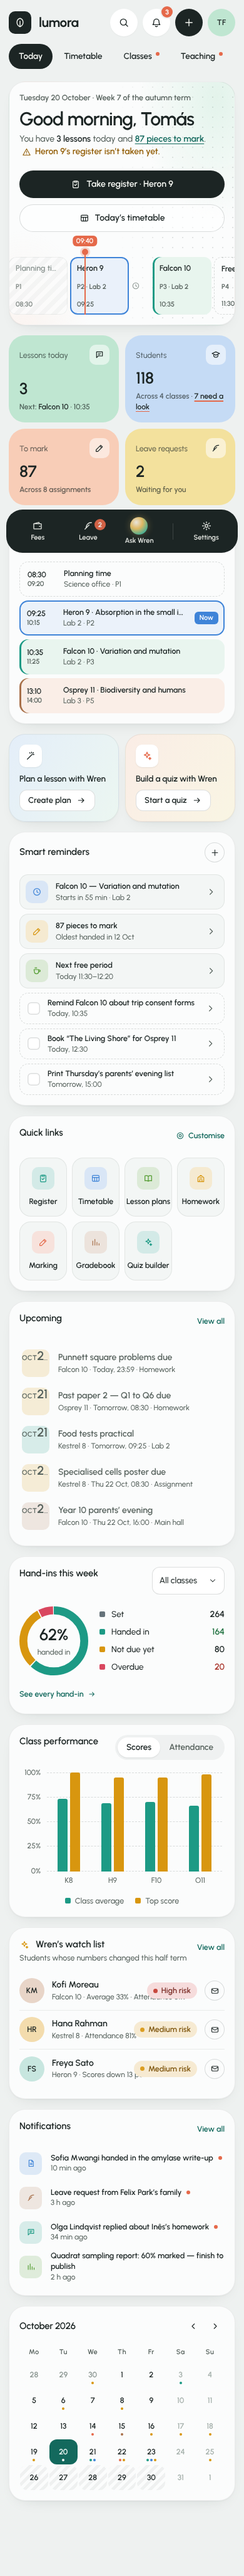
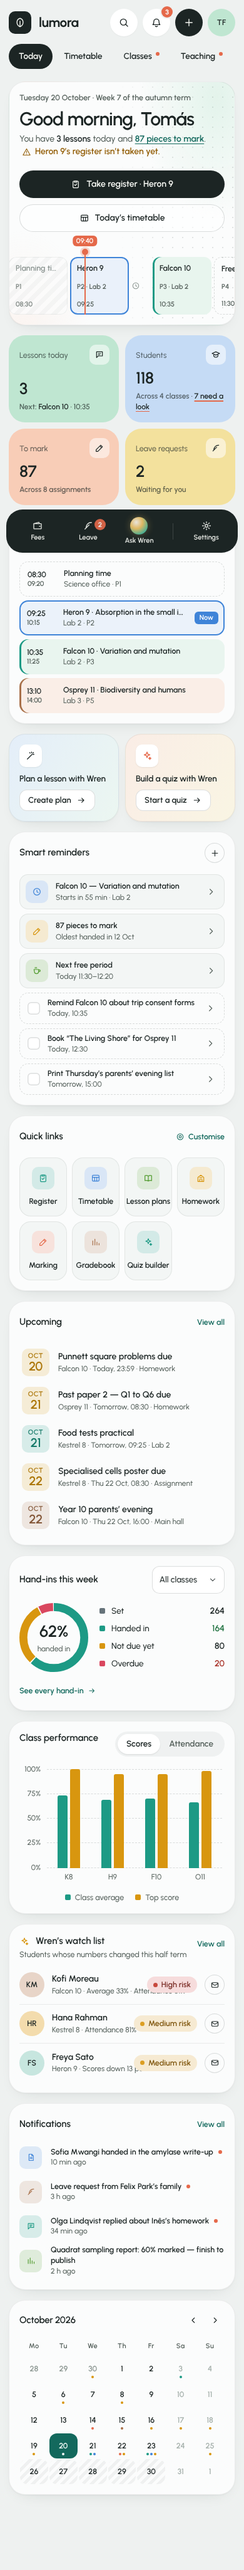
Lumora: la adaptación a MaKo (Mi día) y la copia ajustada al demo
- La copia, a 1 px del demo a 1440 (2041 contra 2040): las fechas de Upcoming en dos renglones y el título de cada
  tarjeta centrado con su link, como en Lumora.
- La adaptación (mako.html), con la misma hoja y el mismo movimiento: la cinta del día con la línea del ahora, las dos
  tarjetas de MaKo, los cuatro números del día (con la barrita de Lumora: MaKo no guarda la serie para dibujar la
  línea), los accesos, lo que vence, tu funnel hoy, tus OKRs contra lo esperado, los que te deben, el semáforo y el
  riel con el mes, tu día y los recordatorios. Todo sale de los datos que General ya lee.

Claude-Cuenta: nube
Claude-Session: https://claude.ai/code/session_01759ySfsXTQm8uWjcijqpqk

diff --git a/docs/diseno/mockups-dashboard/focus-lumora/mako.html b/docs/diseno/mockups-dashboard/focus-lumora/mako.html
@@ -1,0 +1,188 @@
+<!doctype html>
+<!-- FOCUS (LUMORA) · PASO 2: LA ADAPTACIÓN A MaKo de la copia de Lumora (4/11/2026). La MISMA hoja (lumora.css) y el mismo
+     movimiento (lumora.js) que copia.html; cambian los textos y lo que dice cada bloque. Los nombres y los números son de
+     EJEMPLO (ficticios). Sin la barra de arriba ni la de abajo: en MaKo las pone la app.
+     De dónde sale cada bloque (todo de los datos que General ya lee, app/general/datos.ts):
+       · el hero: la fecha y la semana del trimestre, el saludo, cuántas llamadas y tareas hay hoy, y lo que urge (cuotas
+         vencidas); la CINTA es lo de hoy en el Calendario, con la línea del ahora;
+       · las dos tarjetas de la IA: preparar la próxima llamada (la ficha del lead) y preguntarle a MaKo (su chat);
+       · los cuatro números: las llamadas de hoy, las tareas de hoy, lo que te deben y los KPIs del día. La barrita es el
+         `meter` de Lumora: MaKo no guarda la serie de esos números, así que la línea (sparkline) no se dibuja;
+       · los accesos: las tabs de MaKo;
+       · lo que vence (el Plan), tu funnel hoy (la dona por etapa), cómo vas con tus OKRs (el avance contra lo esperado a
+         hoy: las barras de Lumora), los que te deben (las cuotas) y el semáforo (sus alertas);
+       · el riel: el mes con lo que tiene el Calendario, tu día y los recordatorios (lo próximo, lo vencido, el próximo
+         hueco libre y las tareas de hoy para tildar).
+     Lo que Lumora tiene y MaKo no mide no se inventa: el selector «Scores · Attendance» (MaKo tiene una sola vara por OKR),
+     el «Customise» de los accesos y el sobre de la lista de vigilancia (un mensaje a un tercero sale por sus puertas). -->
+<html lang="es"><head><meta charset="utf-8">
+<meta name="viewport" content="width=device-width,initial-scale=1">
+<title>Mi día · la hoja de MaKo</title>
+<link rel="preconnect" href="https://fonts.googleapis.com">
+<link href="https://fonts.googleapis.com/css2?family=Urbanist:wght@400..700&display=swap" rel="stylesheet">
+<link rel="stylesheet" href="lumora.css">
+<style>.dash { margin: 24px auto 48px; max-width: 1340px; padding: 0 26px; } @media (max-width: 760px) { .dash { margin: 16px 0 40px; padding: 0 14px; } }</style>
+</head><body>
+<svg width="0" height="0" style="position:absolute" aria-hidden="true">
+  <symbol id="i-leaf" viewBox="0 0 24 24"><path d="M12 21c-4.5-2.5-6.5-6-6.5-9.5C5.5 7 8.5 4 12 3c3.5 1 6.5 4 6.5 8.5 0 3.5-2 7-6.5 9.5zM12 21V9"/></symbol>
+  <symbol id="i-search" viewBox="0 0 24 24"><circle cx="11" cy="11" r="6.5"/><path d="M20 20l-4.2-4.2"/></symbol>
+  <symbol id="i-moon" viewBox="0 0 24 24"><path d="M20 14.5A8 8 0 0 1 9.5 4a8 8 0 1 0 10.5 10.5z"/></symbol>
+  <symbol id="i-bell" viewBox="0 0 24 24"><path d="M6.5 10a5.5 5.5 0 0 1 11 0c0 5 2 6.5 2 6.5h-15s2-1.5 2-6.5M10 19.5a2.2 2.2 0 0 0 4 0"/></symbol>
+  <symbol id="i-plus" viewBox="0 0 24 24"><path d="M12 5v14M5 12h14"/></symbol>
+  <symbol id="i-wallet" viewBox="0 0 24 24"><path d="M4 7.5h15a1 1 0 0 1 1 1v9a1 1 0 0 1-1 1H5a1 1 0 0 1-1-1zM4 7.5l11-3 1 3M16 13h1.5"/></symbol>
+  <symbol id="i-feather" viewBox="0 0 24 24"><path d="M19 5c-6 0-11 4-12 12l-2 2M7 17l7-7"/></symbol>
+  <symbol id="i-gear" viewBox="0 0 24 24"><circle cx="12" cy="12" r="3"/><path d="M12 3.5v2.2M12 18.3v2.2M3.5 12h2.2M18.3 12h2.2M6 6l1.6 1.6M16.4 16.4L18 18M6 18l1.6-1.6M16.4 7.6L18 6"/></symbol>
+  <symbol id="i-clip" viewBox="0 0 24 24"><rect x="5.5" y="4.5" width="13" height="16" rx="2"/><path d="M9 4.5h6v3H9zM9 13l2 2 4-4"/></symbol>
+  <symbol id="i-grid" viewBox="0 0 24 24"><rect x="4" y="5" width="16" height="14" rx="2"/><path d="M4 10h16M9.5 10v9M14.5 10v9"/></symbol>
+  <symbol id="i-warn" viewBox="0 0 24 24"><path d="M12 4l9 16H3zM12 10v4M12 17h.01"/></symbol>
+  <symbol id="i-clock" viewBox="0 0 24 24"><circle cx="12" cy="12" r="8"/><path d="M12 8v4l3 2"/></symbol>
+  <symbol id="i-cup" viewBox="0 0 24 24"><path d="M5 9h11v5a5 5 0 0 1-10 0zM16 10h2a2 2 0 0 1 0 4h-2M8 4v2M11 4v2"/></symbol>
+  <symbol id="i-wand" viewBox="0 0 24 24"><path d="M5 19L15 9M14 4v2M19 9h-2M18 5l-1.5 1.5M10 5l.8 1.5"/></symbol>
+  <symbol id="i-sparkle" viewBox="0 0 24 24"><path d="M12 4l1.6 4.4L18 10l-4.4 1.6L12 16l-1.6-4.4L6 10l4.4-1.6zM18 15l.7 1.8 1.8.7-1.8.7L18 20l-.7-1.8-1.8-.7 1.8-.7z"/></symbol>
+  <symbol id="i-arrow" viewBox="0 0 24 24"><path d="M5 12h13M13 7l5 5-5 5"/></symbol>
+  <symbol id="i-chat" viewBox="0 0 24 24"><path d="M5 5h14v10H9l-4 4zM9 9h6M9 12h4"/></symbol>
+  <symbol id="i-cap" viewBox="0 0 24 24"><path d="M3 9l9-4 9 4-9 4zM7 11v4c0 1.5 2.5 3 5 3s5-1.5 5-3v-4"/></symbol>
+  <symbol id="i-pen" viewBox="0 0 24 24"><path d="M15 5l4 4L8 20H4v-4zM13 7l4 4"/></symbol>
+  <symbol id="i-book" viewBox="0 0 24 24"><path d="M4 6c3-1 5-1 8 1v12c-3-2-5-2-8-1zM20 6c-3-1-5-1-8 1v12c3-2 5-2 8-1z"/></symbol>
+  <symbol id="i-home" viewBox="0 0 24 24"><path d="M5 20V10l7-5 7 5v10zM9 20v-5h6v5M9 11h6"/></symbol>
+  <symbol id="i-chart" viewBox="0 0 24 24"><path d="M5 19V9M10 19V5M15 19v-7M20 19v-4"/></symbol>
+  <symbol id="i-chev" viewBox="0 0 24 24"><path d="M10 6l6 6-6 6"/></symbol>
+  <symbol id="i-chevl" viewBox="0 0 24 24"><path d="M14 6l-6 6 6 6"/></symbol>
+  <symbol id="i-down" viewBox="0 0 24 24"><path d="M6 9l6 6 6-6"/></symbol>
+  <symbol id="i-mail" viewBox="0 0 24 24"><rect x="4" y="6" width="16" height="12" rx="2"/><path d="M4 8l8 5 8-5"/></symbol>
+  <symbol id="i-doc" viewBox="0 0 24 24"><path d="M7 4h7l4 4v12H7zM14 4v4h4M10 12h5M10 15h5"/></symbol>
+  <symbol id="i-cog" viewBox="0 0 24 24"><circle cx="12" cy="12" r="3.2"/><circle cx="12" cy="12" r="8"/></symbol>
+</svg>
+<main class="dash">
+  <div class="dash__main">
+    <section class="card hero" data-card>
+      <p class="hero__date">Miércoles 4 de noviembre · Semana 6 del Q4</p>
+      <h1 class="hero__title">Buenos días, Ana</h1>
+      <p class="hero__sum">Tienes <b>3 llamadas</b> hoy y <a href="#">5 tareas que vencen</a>. <span class="hero__warn"><svg class="i"><use href="#i-warn"/></svg>2 cuotas vencidas sin cobrar.</span></p>
+      <div class="hero__acts">
+        <a class="btn btn--primary" href="#"><svg class="i"><use href="#i-clip"/></svg>Abrir el Plan</a>
+        <a class="btn btn--ghost" href="#"><svg class="i"><use href="#i-grid"/></svg>Abrir el calendario</a>
+      </div>
+      <div class="ribbon">
+        <div class="ribbon__now"><b>11:10</b><i></i></div>
+        <a class="ribbon__it ribbon__it--slot is-ppa" href="#"><b>Revisión de creativos</b><span>Reunión</span><span>09:00</span></a>
+        <a class="ribbon__it ribbon__it--slot is-now" href="#"><b>R1 con Carlos Ibarra</b><span>Llamada · 30 min</span><span>11:00</span></a>
+        <span class="ribbon__it ribbon__it--break" aria-hidden="true"><svg class="i"><use href="#i-clock"/></svg></span>
+        <a class="ribbon__it ribbon__it--slot is-pine" href="#"><b>R2 con Laura Méndez</b><span>Llamada · 45 min</span><span>12:30</span></a>
+        <span class="ribbon__it ribbon__it--free"><b>Libre</b><span>1 h 15 min</span><span>13:15</span></span>
+        <span class="ribbon__it ribbon__it--break" aria-hidden="true"><svg class="i"><use href="#i-cup"/></svg></span>
+        <a class="ribbon__it ribbon__it--slot is-clay" href="#"><b>Reel del método</b><span>Publicación</span><span>17:00</span></a>
+        <a class="ribbon__it ribbon__it--slot is-pine" href="#"><b>R1 con Jorge Salinas</b><span>Llamada · 30 min</span><span>18:00</span></a>
+      </div>
+    </section>
+
+    <div class="two two--ai">
+      <a class="card ai-card" href="#" data-card><span class="ai-card__ic"><svg class="i"><use href="#i-wand"/></svg></span><span><b>Prepara tu próxima llamada</b><small>Lo que MaKo sabe de Laura Méndez antes de entrar.</small></span><span class="btn btn--xs">Abrir la ficha<svg class="i"><use href="#i-arrow"/></svg></span></a>
+      <a class="card ai-card ai-card--b" href="#" data-card><span class="ai-card__ic" style="color:var(--coral)"><svg class="i"><use href="#i-sparkle"/></svg></span><span><b>Pregúntale a MaKo</b><small>Qué te falta hoy, qué está atrasado y qué va primero.</small></span><span class="btn btn--xs">Abrir el chat<svg class="i"><use href="#i-arrow"/></svg></span></a>
+    </div>
+
+    <div class="kpis">
+      <a class="card kpi" href="#" style="--tone:var(--t-mint)" data-card><span class="kpi__l">Llamadas hoy<span class="kpi__ic"><svg class="i"><use href="#i-chat"/></svg></span></span><span class="kpi__m"><span class="kpi__v" data-count="3">3</span><span class="meter"><i class="meter__fill" style="transform:scaleX(.33)"></i></span></span><span class="kpi__f">Próxima: <b>Laura Méndez</b> · 12:30</span></a>
+      <a class="card kpi" href="#" style="--tone:var(--t-sky)" data-card><span class="kpi__l">Tareas de hoy<span class="kpi__ic"><svg class="i"><use href="#i-clip"/></svg></span></span><span class="kpi__m"><span class="kpi__v" data-count="5">5</span><span class="meter"><i class="meter__fill" style="transform:scaleX(.4)"></i></span></span><span class="kpi__f">2 hechas · <u>1 vencida</u></span></a>
+      <a class="card kpi" href="#" style="--tone:var(--t-peach)" data-card><span class="kpi__l">Te deben<span class="kpi__ic"><svg class="i"><use href="#i-wallet"/></svg></span></span><span class="kpi__m"><span class="kpi__v">US$11.4k</span><span class="meter"><i class="meter__fill" style="transform:scaleX(.68)"></i></span></span><span class="kpi__f">De 6 clientes · 2 vencidas</span></a>
+      <a class="card kpi" href="#" style="--tone:var(--t-lemon)" data-card><span class="kpi__l">KPIs del día<span class="kpi__ic"><svg class="i"><use href="#i-chart"/></svg></span></span><span class="kpi__m"><span class="kpi__v" data-count="2">2</span><span class="meter"><i class="meter__fill" style="transform:scaleX(.5)"></i></span></span><span class="kpi__f">En verde, de 4</span></a>
+    </div>
+
+    <section class="card quick" data-card>
+      <div class="card__h"><h2 class="card__t">Accesos</h2></div>
+      <div class="quick__grid">
+        <a class="quick__a" href="#"><span class="quick__ic" style="--tone:var(--pine)"><svg class="i"><use href="#i-cap"/></svg></span>CRM</a>
+        <a class="quick__a" href="#"><span class="quick__ic" style="--tone:var(--sky)"><svg class="i"><use href="#i-clip"/></svg></span>Plan</a>
+        <a class="quick__a" href="#"><span class="quick__ic" style="--tone:var(--moss)"><svg class="i"><use href="#i-grid"/></svg></span>Calendario</a>
+        <a class="quick__a" href="#"><span class="quick__ic" style="--tone:var(--marigold)"><svg class="i"><use href="#i-wallet"/></svg></span>Clientes</a>
+        <a class="quick__a" href="#"><span class="quick__ic" style="--tone:var(--coral)"><svg class="i"><use href="#i-book"/></svg></span>Offer</a>
+        <a class="quick__a" href="#"><span class="quick__ic" style="--tone:var(--clay)"><svg class="i"><use href="#i-chart"/></svg></span>Ads Analyst</a>
+        <a class="quick__a" href="#"><span class="quick__ic" style="--tone:var(--pine)"><svg class="i"><use href="#i-sparkle"/></svg></span>Automations</a>
+      </div>
+    </section>
+
+    <div class="two upc-hw">
+      <section class="card upc" data-card>
+        <div class="card__h"><h2 class="card__t">Lo que vence</h2><a class="card__link" href="#">Ver el Plan</a></div>
+        <ul class="upc__list">
+          <li><a class="upc__row" href="#"><span class="upc__d" style="--tone:var(--coral)"><small>Nov</small><b>3</b></span><span><strong>Mandar la propuesta a Jorge Salinas</strong><span>Ventas de noviembre · Ayer · Vencida</span></span></a></li>
+          <li><a class="upc__row" href="#"><span class="upc__d" style="--tone:var(--marigold)"><small>Nov</small><b>4</b></span><span><strong>Preparar la R2 de Laura Méndez</strong><span>Ventas de noviembre · Hoy</span></span></a></li>
+          <li><a class="upc__row" href="#"><span class="upc__d" style="--tone:var(--marigold)"><small>Nov</small><b>4</b></span><span><strong>Grabar tres hooks nuevos</strong><span>Creativos de Meta · Hoy</span></span></a></li>
+          <li><a class="upc__row" href="#"><span class="upc__d" style="--tone:var(--pine)"><small>Nov</small><b>6</b></span><span><strong>Revisar el guion de la VSL</strong><span>Nueva VSL · Viernes</span></span></a></li>
+          <li><a class="upc__row" href="#"><span class="upc__d" style="--tone:var(--clay)"><small>Nov</small><b>11</b></span><span><strong>Creativos de Meta</strong><span>Proyecto · 45 % hecho</span></span></a></li>
+        </ul>
+      </section>
+      <section class="card hw" data-card>
+        <div class="card__h"><h2 class="card__t">Tu funnel hoy</h2><span class="select">Programa principal<svg class="i" style="width:14px;height:14px"><use href="#i-down"/></svg></span></div>
+        <div class="hw__b">
+          <div class="donut" data-donut='[{"v":38,"c":"var(--sky)"},{"v":21,"c":"var(--pine)"},{"v":9,"c":"var(--marigold)"},{"v":6,"c":"var(--rose)"}]'><svg viewBox="0 0 130 130" aria-hidden="true"></svg><div class="donut__c"><b>74</b><small>leads abiertos</small></div></div>
+          <ul class="legend">
+            <li><i style="--c:var(--sky)"></i>Nuevo<b>38</b></li>
+            <li><i style="--c:var(--pine)"></i>Agendó<b>21</b></li>
+            <li><i style="--c:var(--marigold)"></i>Asistió<b>9</b></li>
+            <li><i style="--c:var(--rose)"></i>Propuesta<b>6</b></li>
+          </ul>
+        </div>
+        <a class="card__link hw__more" href="#">Abrir el CRM<svg class="i"><use href="#i-arrow"/></svg></a>
+      </section>
+    </div>
+
+    <section class="card perf" data-card>
+      <div class="card__h"><h2 class="card__t">Cómo vas con tus OKRs</h2><a class="card__link" href="#">Ver los OKRs</a></div>
+      <div class="gbars" data-gbars='[["Facturación",62,58],["Ventas",71,58],["Leads",48,58],["Retención",80,58]]'>
+        <div class="gbars__grid"><span data-v="100%"></span><span data-v="75%"></span><span data-v="50%"></span><span data-v="25%"></span><span data-v="0%"></span></div>
+        <div class="gbars__cols"></div>
+      </div>
+      <div class="gbars__k"><span><i style="--c:var(--pine)"></i>Avance</span><span><i style="--c:var(--marigold)"></i>Lo esperado a hoy</span></div>
+    </section>
+
+    <div class="two risk-notes">
+      <section class="card risk" data-card>
+        <div class="card__h"><div><h2 class="card__t risk__h" style="display:flex;align-items:center;gap:10px"><svg class="i"><use href="#i-sparkle"/></svg>Los que te deben</h2><p class="card__s">Las cuotas vencidas y las que vencen pronto</p></div><a class="card__link" href="#">Ver todos</a></div>
+        <ul class="risk__list">
+          <li class="risk__row"><a class="risk__who" href="#"><span class="av" style="--tone:#e8d5c8">CM</span><span><b>Carlos Méndez</b><small>US$2,475 · venció hace 67 días</small></span></a><span class="pill pill--high"><i></i>Vencida</span></li>
+          <li class="risk__row"><a class="risk__who" href="#"><span class="av" style="--tone:#e8d5c8">LR</span><span><b>Lucía Ramos</b><small>US$5,181 · venció hace 5 días</small></span></a><span class="pill pill--high"><i></i>Vencida</span></li>
+          <li class="risk__row"><a class="risk__who" href="#"><span class="av" style="--tone:#f3dcad">DF</span><span><b>Diego Fuentes</b><small>US$2,007 · vence hoy</small></span></a><span class="pill pill--med"><i></i>Vence pronto</span></li>
+        </ul>
+      </section>
+      <section class="card notes" data-card>
+        <div class="card__h"><h2 class="card__t">El semáforo</h2><a class="card__link" href="#">Ver todo</a></div>
+        <ul class="notes__list">
+          <li><a class="notes__row is-unread" href="#"><span class="notes__ic" style="--tone:var(--rose)"><svg class="i"><use href="#i-warn"/></svg></span><span><b>2 cuotas vencidas sin cobrar</b><small>Ver las cuotas</small></span></a></li>
+          <li><a class="notes__row is-unread" href="#"><span class="notes__ic" style="--tone:var(--marigold)"><svg class="i"><use href="#i-chat"/></svg></span><span><b>3 leads sin marcar la asistencia a la R1</b><small>Marcar en el CRM</small></span></a></li>
+          <li><a class="notes__row" href="#"><span class="notes__ic" style="--tone:var(--pine)"><svg class="i"><use href="#i-chart"/></svg></span><span><b>La meta del trimestre va a tiempo</b><small>Ver la meta</small></span></a></li>
+          <li><a class="notes__row" href="#"><span class="notes__ic" style="--tone:var(--sky)"><svg class="i"><use href="#i-doc"/></svg></span><span><b>Meta Ads conectado y leyendo</b><small>Ver las integraciones</small></span></a></li>
+        </ul>
+      </section>
+    </div>
+  </div>
+
+  <aside class="dash__rail">
+    <section class="card cal" data-card>
+      <div class="cal__h"><b>Noviembre 2026</b></div>
+      <div class="cal__grid" data-cal='{"dias":["Lu","Ma","Mi","Ju","Vi","Sá","Do"],"inicio":"2026-10-26","mes":"2026-11","hoy":"2026-11-04","feriado":[],"puntos":{"2026-11-04":["x"],"2026-11-05":["var(--pine)","var(--sky)"],"2026-11-06":["var(--marigold)"],"2026-11-09":["var(--pine)"],"2026-11-10":["var(--coral)","var(--pine)"],"2026-11-11":["var(--clay)"],"2026-11-12":["var(--pine)","var(--sky)","var(--marigold)"],"2026-11-13":["var(--marigold)"],"2026-11-16":["var(--pine)"],"2026-11-17":["var(--sky)"]}}'></div>
+    </section>
+    <section class="card sch" data-card>
+      <div class="card__h"><div><h2 class="card__t">Tu día</h2><p class="card__s">Hoy · 3 llamadas</p></div><a class="card__link" href="#">Calendario</a></div>
+      <div class="sch__list">
+        <a class="sch__row sch__row--free" href="#"><span class="sch__t"><b>09:00</b><small>09:45</small></span><span class="sch__x"><b>Revisión de creativos</b><small>Reunión del equipo</small></span></a>
+        <a class="sch__row sch__row--sky" href="#"><span class="sch__t"><b>11:00</b><small>11:30</small></span><span class="sch__x"><b>R1 con Carlos Ibarra</b><small>Llamada de venta</small></span><span class="now">Ahora</span></a>
+        <a class="sch__row sch__row--pine" href="#"><span class="sch__t"><b>12:30</b><small>13:15</small></span><span class="sch__x"><b>R2 con Laura Méndez</b><small>Llamada de venta</small></span></a>
+        <a class="sch__row sch__row--clay" href="#"><span class="sch__t"><b>17:00</b><small></small></span><span class="sch__x"><b>Reel del método</b><small>Publicación</small></span></a>
+      </div>
+    </section>
+    <section class="card rem" data-card>
+      <div class="card__h"><h2 class="card__t">Recordatorios</h2></div>
+      <div class="rem__list">
+        <a class="rem__row" href="#"><span class="rem__ic" style="--tone:var(--sky)"><svg class="i"><use href="#i-clock"/></svg></span><span><b>R2 con Laura Méndez</b><small>Empieza en 1 h 20 min</small></span><svg class="i"><use href="#i-chev"/></svg></a>
+        <a class="rem__row" href="#"><span class="rem__ic" style="--tone:var(--marigold)"><svg class="i"><use href="#i-pen"/></svg></span><span><b>1 tarea vencida</b><small>La más vieja, del 3/11</small></span><svg class="i"><use href="#i-chev"/></svg></a>
+        <a class="rem__row" href="#"><span class="rem__ic" style="--tone:var(--moss)"><svg class="i"><use href="#i-cup"/></svg></span><span><b>Próximo hueco libre</b><small>Hoy 13:15–17:00</small></span><svg class="i"><use href="#i-chev"/></svg></a>
+        <a class="rem__row rem__row--todo" href="#"><span class="check"></span><span><b>Preparar la R2 de Laura Méndez</b><small>Hoy · Ventas de noviembre</small></span><svg class="i"><use href="#i-chev"/></svg></a>
+        <a class="rem__row rem__row--todo" href="#"><span class="check"></span><span><b>Grabar tres hooks nuevos</b><small>Hoy · Creativos de Meta</small></span><svg class="i"><use href="#i-chev"/></svg></a>
+        <a class="rem__row rem__row--todo" href="#"><span class="check"></span><span><b>Armar el reporte de octubre</b><small>Hoy · Operación</small></span><svg class="i"><use href="#i-chev"/></svg></a>
+      </div>
+    </section>
+  </aside>
+</main>
+<script src="lumora.js"></script>
+</body></html>

diff --git a/docs/diseno/mockups-dashboard/focus-lumora/lumora.css b/docs/diseno/mockups-dashboard/focus-lumora/lumora.css
@@ -71,7 +71,8 @@ svg.i { width: 18px; height: 18px; flex: none; fill: none; stroke: currentColor;
   margin: 0 var(--gutter) 48px calc(var(--dock-x) + var(--dock-w) + var(--gutter)); }
 .dash__main, .dash__rail { display: flex; flex-direction: column; gap: var(--gap); min-width: 0; }
 .card { position: relative; border-radius: var(--r-card); background: var(--card); border: 1px solid #16221f12; box-shadow: var(--shadow); padding: 20px; min-width: 0; }
-.card__h { display: flex; align-items: flex-start; justify-content: space-between; gap: 12px; }
+.card__h { display: flex; align-items: center; justify-content: space-between; gap: 12px; min-height: 34px; }
+.card__h:has(> div) { align-items: flex-start; }
 .card__t { font-size: 15px; font-weight: 600; line-height: 21.75px; letter-spacing: -.075px; }
 .card__s { margin-top: 1px; color: var(--muted); font-size: 12.5px; font-weight: 500; line-height: 18.125px; }
 .card__link { display: inline-flex; align-items: center; gap: 6px; height: 30px; color: var(--primary); font-size: 12.5px; font-weight: 600; white-space: nowrap; }
@@ -134,29 +135,32 @@ svg.i { width: 18px; height: 18px; flex: none; fill: none; stroke: currentColor;
 .kpi__v { font-size: 26px; font-weight: 600; line-height: 26px; letter-spacing: -.52px; font-variant-numeric: tabular-nums; }
 .spark { width: 78px; height: 30px; flex: none; }
 .spark path { fill: none; stroke: var(--ink); stroke-width: 2; stroke-linecap: round; stroke-linejoin: round; }
+/* La barrita de la adaptación (en MaKo no hay serie para la línea): el `meter` de Lumora, del mismo demo */
+.meter { width: 78px; height: 6px; flex: none; margin-bottom: 8px; border-radius: 3px; background: var(--tile-well); overflow: hidden; }
+.meter__fill { display: block; height: 100%; border-radius: 3px; background: var(--ink); transform-origin: left center; }
 .kpi__f { color: var(--tile-dim); font-size: 12px; font-weight: 600; line-height: 16.2px; white-space: nowrap; overflow: hidden; text-overflow: ellipsis; }
 .kpi__f b { color: var(--ink); font-weight: 600; }
 .kpi__f u { color: var(--ink); text-decoration-color: var(--coral); text-decoration-thickness: 2px; text-underline-offset: 3px; }
 
 /* Accesos */
-.quick__grid { display: grid; grid-template-columns: repeat(7, minmax(0, 1fr)); gap: 8px; margin-top: 20px; }
+.quick__grid { display: grid; grid-template-columns: repeat(7, minmax(0, 1fr)); gap: 8px; margin-top: 16px; }
 .quick__a { display: flex; flex-direction: column; align-items: center; justify-content: center; gap: 10px; height: 94px; border-radius: 18px; background: var(--surface-2); box-shadow: inset 0 0 0 1px var(--line); font-size: 12.5px; font-weight: 600; transition: background-color .15s; }
 .quick__a:hover { background: var(--control); }
 .quick__ic { display: grid; place-items: center; width: 36px; height: 36px; border-radius: 10px; background: color-mix(in srgb, var(--tone) 18%, var(--card)); color: var(--tone); }
 .quick__ic svg.i { width: 16px; height: 16px; }
 
 /* Lo que viene */
-.upc__list { margin-top: 22px; }
+.upc__list { margin-top: 17px; }
 .upc__row { display: grid; grid-template-columns: 44px minmax(0, 1fr); column-gap: 14px; align-items: center; height: 61px; padding: 0 4px; border-radius: 12px; }
 .upc__d { display: flex; flex-direction: column; align-items: center; justify-content: center; width: 44px; height: 44px; border-radius: 10px; background: color-mix(in srgb, var(--tone) 16%, var(--card)); color: color-mix(in srgb, var(--tone) 80%, #000); }
 .upc__d small { font-size: 11px; font-weight: 600; line-height: 11.55px; letter-spacing: .44px; text-transform: uppercase; }
 .upc__d b { font-size: 20px; font-weight: 600; line-height: 21px; letter-spacing: -.4px; }
 .upc__row strong { display: block; font-size: 14px; font-weight: 600; line-height: 20.3px; overflow: hidden; text-overflow: ellipsis; white-space: nowrap; }
-.upc__row span { display: block; color: var(--muted); font-size: 12px; font-weight: 500; line-height: 17.4px; overflow: hidden; text-overflow: ellipsis; white-space: nowrap; }
+.upc__row strong + span { display: block; color: var(--muted); font-size: 12px; font-weight: 500; line-height: 17.4px; overflow: hidden; text-overflow: ellipsis; white-space: nowrap; }
 
 /* Las entregas: la dona y su leyenda */
 .select { height: 44px; padding: 0 12px; border-radius: 12px; box-shadow: inset 0 0 0 1px var(--line-2); background: var(--control); font-size: 13.5px; font-weight: 500; display: inline-flex; align-items: center; gap: 18px; }
-.hw__b { display: grid; grid-template-columns: 130px minmax(0, 1fr); gap: 28px; align-items: center; margin-top: 18px; }
+.hw__b { display: grid; grid-template-columns: 130px minmax(0, 1fr); gap: 28px; align-items: center; margin-top: 14px; }
 .donut { position: relative; width: 130px; height: 130px; }
 .donut svg { width: 130px; height: 130px; transform: rotate(-90deg); }
 .donut circle { fill: none; stroke-width: 15; }
@@ -187,7 +191,7 @@ svg.i { width: 18px; height: 18px; flex: none; fill: none; stroke: currentColor;
 .gbars__k i { width: 9px; height: 9px; border-radius: 2px; background: var(--c); }
 
 /* La lista de vigilancia */
-.risk__list { margin-top: 13px; }
+.risk__list { margin-top: 9px; }
 .risk__row { display: flex; align-items: center; gap: 12px; height: 62px; border-bottom: 1px solid var(--line); }
 .risk__row:last-child { border-bottom: 0; }
 .av { display: grid; place-items: center; width: 40px; height: 40px; border-radius: 50%; flex: none; background: var(--tone); font-size: 12.5px; font-weight: 600; color: var(--ink); }
@@ -201,7 +205,7 @@ svg.i { width: 18px; height: 18px; flex: none; fill: none; stroke: currentColor;
 .risk__h svg.i { width: 16px; height: 16px; color: var(--marigold); }
 
 /* Avisos */
-.notes__list { margin-top: 14px; }
+.notes__list { margin-top: 10px; }
 .notes__row { display: grid; grid-template-columns: 36px minmax(0, 1fr); column-gap: 14px; align-items: center; height: 52px; margin-bottom: 3px; }
 .notes__ic { display: grid; place-items: center; width: 36px; height: 36px; border-radius: 10px; background: color-mix(in srgb, var(--tone) 16%, var(--card)); color: var(--tone); }
 .notes__ic svg.i { width: 15px; height: 15px; }
@@ -226,7 +230,7 @@ svg.i { width: 18px; height: 18px; flex: none; fill: none; stroke: currentColor;
 .cal__d.is-today .dots i { background: var(--on-primary); }
 .sch__list, .rem__list { margin-top: 16px; display: flex; flex-direction: column; gap: 6px; }
 .rem .card__h { align-items: center; }
-.rem__list { margin-top: 19px; gap: 7px; }
+.rem__list { margin-top: 17px; gap: 7px; }
 .sch__row { display: grid; grid-template-columns: 44px minmax(0, 1fr) auto; column-gap: 14px; align-items: center; min-height: 56px; padding: 8px 10px 8px 12px; border-radius: 14px; text-align: left;
   background: color-mix(in srgb, var(--tone, transparent) 30%, var(--card)); box-shadow: inset 3px 0 0 var(--tone-edge, transparent); }
 .sch__row--free { background: transparent; box-shadow: none; border: 1px dashed var(--line-2); }

diff --git a/docs/diseno/mockups-dashboard/focus-lumora/lumora.js b/docs/diseno/mockups-dashboard/focus-lumora/lumora.js
@@ -57,7 +57,7 @@
   // ── el mes (lunes primero; lo de afuera más claro, el fin de semana más claro, los feriados rayados) ──────
   $$('[data-cal]').forEach((caja) => {
     const d = JSON.parse(caja.dataset.cal);
-    const dow = ['Mo', 'Tu', 'We', 'Th', 'Fr', 'Sa', 'Su'];
+    const dow = d.dias || ['Mo', 'Tu', 'We', 'Th', 'Fr', 'Sa', 'Su'];
     let html = dow.map((x) => `<span class="cal__dow">${x}</span>`).join('');
     const ini = new Date(`${d.inicio}T12:00:00Z`);
     for (let i = 0; i < 35; i++) {
@@ -137,6 +137,9 @@
     p.style.strokeDasharray = String(L);
     p.animate([{ strokeDashoffset: L }, { strokeDashoffset: 0 }], { duration: 1000, easing: P2IO, delay: (0.4 + 0.1 + i * 0.06) * 1000, fill: 'backwards' });
   });
+  // «rt» (`.meter__fill`: scaleX 0 → su valor · 1 s power3.out · .03): en la adaptación la barrita reemplaza a la línea. Se
+  // pone a los .4, donde la entrada llama a `Oe(.kpis)` (el INFORME no dice qué hace ese helper: es una inferencia).
+  $$('.kpi .meter__fill').forEach((m, i) => { const fin = m.style.transform || 'scaleX(1)'; m.animate([{ transform: 'scaleX(0)' }, { transform: fin }], { duration: 1000, easing: P3O, delay: (0.4 + i * 0.03) * 1000, fill: 'backwards' }); });
   er($$('.quick, .upc, .hw, .perf, .risk, .notes'), { stagger: 0.06, delay: 0.45 });
   zn($$('.quick__a'), { y: 12, stagger: 0.035, delay: 0.6 });
   zn($$('.upc__row, .risk__row, .notes__row'), { y: 10, stagger: 0.03, delay: 0.7 });
